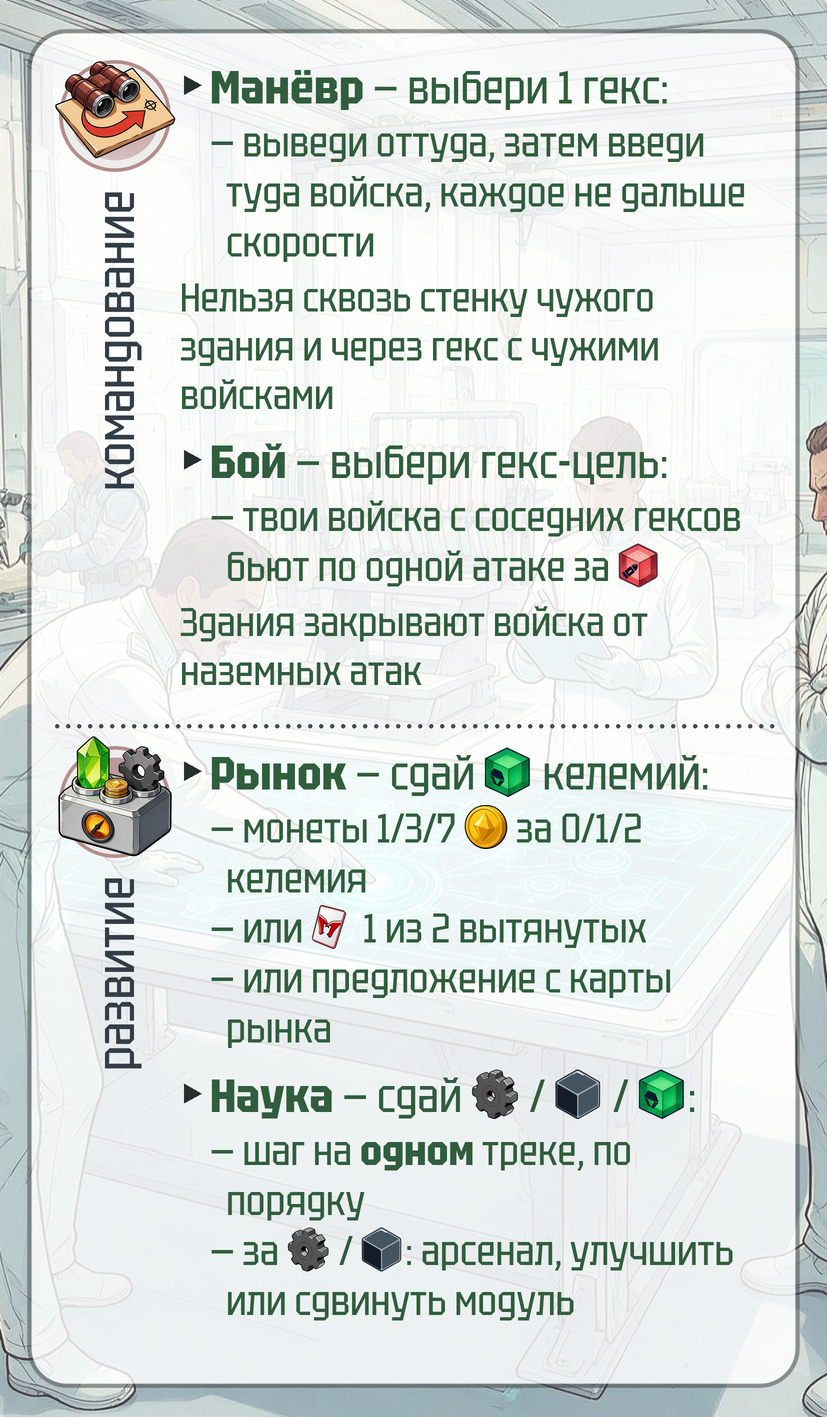
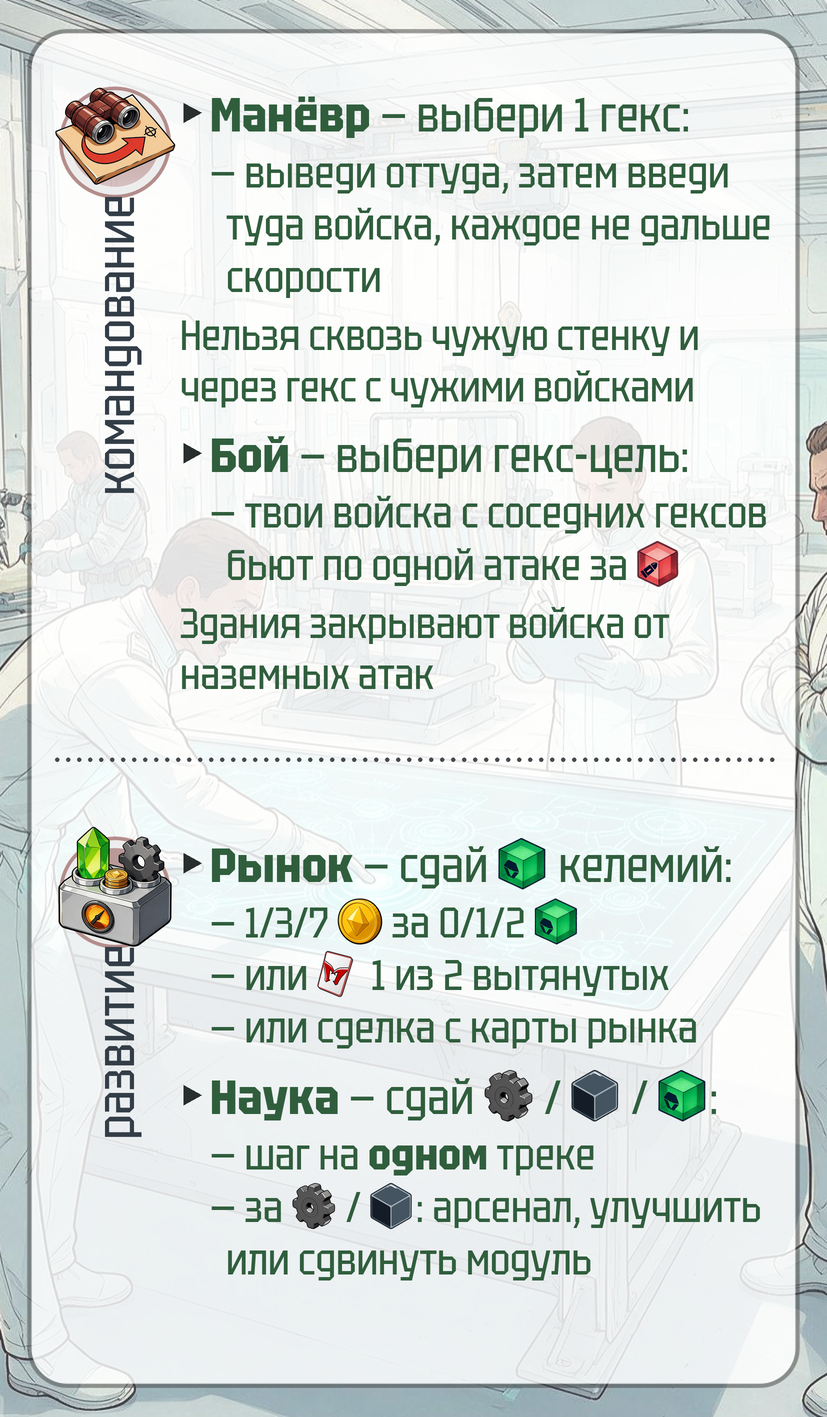
Памятка действий 5.0: разделы по высоте текста, равные зазоры, подписи заходят на кружок, переносы только если экономят строку, крупнее низ; вышка ЦУ — в зону стройки

Changed region(s): [[0.0605, 0.0311, 0.9371, 0.4968], [0.0605, 0.4968, 0.9069, 0.9315]]

diff --git a/tools/gen_memo_5.py b/tools/gen_memo_5.py
@@ -16,6 +16,12 @@ import sys
 
 from PIL import Image, ImageDraw, ImageFont
 
+try:                                   # переносы по слогам (pip install pyphen)
+    import pyphen
+    _СЛОГИ = pyphen.Pyphen(lang='ru_RU')
+except ImportError:
+    _СЛОГИ = None
+
 ROOT = os.path.dirname(os.path.dirname(os.path.abspath(__file__)))
 ДИСК = os.environ.get('KELIUM_DISK', os.path.join(os.path.expanduser('~'), 'Yandex.Disk',
                                                   'Forged in Kelium'))
@@ -97,16 +103,41 @@ def абзац(холст, x, y, ширина, части, р, отступ2=0):
     fо, fж = шрифт(ОБЫЧНЫЙ, р * K), шрифт(ЖИРНЫЙ, р * K)
     ик = int(р * K * 1.08)
     пробел = d.textlength(' ', font=fо)
-    строки, строка, ш = [], [], 0
     макс = ширина * K
+    # ПЕРЕНОС — ТОЛЬКО ЕСЛИ ОН ЭКОНОМИТ СТРОКУ (дизайнер 27.09): раскладка
+    # делается без переносов и с ними; переносы остаются, лишь если строк меньше
+    без = _строки(d, части, fо, fж, ик, пробел, макс, отступ2, False)
+    с = _строки(d, части, fо, fж, ик, пробел, макс, отступ2, True)
+    строки = с if len(с) < len(без) else без
+    return _нарисовать(холст, d, строки, x, y, р, fо, fж, ик, отступ2)
+
+
+def _строки(d, части, fо, fж, ик, пробел, макс, отступ2, переносить):
+    строки, строка, ш = [], [], 0
     for вид, знач in разбить(части):
         if вид == '_':
             if строка:
                 строка.append(('_', пробел))
                 ш += пробел
             continue
-        w = ик if вид == 'и' else d.textlength(знач, font=fж if вид == 'ж' else fо)
+        f_ = fж if вид == 'ж' else fо
+        w = ик if вид == 'и' else d.textlength(знач, font=f_)
         лимит = макс - (отступ2 * K if строки else 0)
+        # ПЕРЕНОС ПО СЛОГАМ (просьба дизайнера 27.09): не влезает слово —
+        # отрезаем от него самый длинный кусок по слогам, что влезает с дефисом
+        if переносить and вид != 'и' and строка and ш + w > лимит and _СЛОГИ and len(знач) > 4:
+            for левая, правая in _СЛОГИ.iterate(знач):
+                # короткий хвост на новой строке хуже, чем слово целиком
+                if len(левая) < 3 or len(правая) < 4:
+                    continue
+                wl = d.textlength(левая + '-', font=f_)
+                if ш + wl <= лимит:
+                    строка.append((вид, левая + '-', wl))
+                    строки.append(строка)
+                    строка, ш = [], 0
+                    знач = правая
+                    w = d.textlength(знач, font=f_)
+                    break
         if строка and ш + w > лимит:
             while строка and строка[-1][0] == '_':
                 ш -= строка.pop()[1]
@@ -116,6 +147,10 @@ def абзац(холст, x, y, ширина, части, р, отступ2=0):
         ш += w
     if строка:
         строки.append(строка)
+    return строки
+
+
+def _нарисовать(холст, d, строки, x, y, р, fо, fж, ик, отступ2):
     шаг = р * K * 1.22
     yy = y * K
     for n, стр in enumerate(строки):
@@ -150,18 +185,30 @@ def пунктир(d, y, x0=55, x1=775):
         x += 11 * K
 
 
-def раздел(холст, y0, y1, иконка, подпись, строки, р=40):
+НАХЛЁСТ = 8          # вертикальная подпись заходит на кружок (просьба дизайнера 27.09)
+
+
+def высота_раздела(иконка, подпись, строки, р=40):
+    """Сколько раздел займёт по высоте: текст или кружок с подписью, что выше."""
+    пусто = Image.new('RGBA', (827 * K, 2000 * K))
+    конец_текста = раздел(пусто, 0, 10 ** 6, иконка, подпись, строки, р, только_текст=True)
+    return max(конец_текста, 72 + 56 + 150)
+
+
+def раздел(холст, y0, y1, иконка, подпись, строки, р=40, только_текст=False):
     """Левая колонка: кружок и вертикальная подпись; справа — строки."""
     d = ImageDraw.Draw(холст)
+    if только_текст:
+        return _текст(холст, d, y0, строки, р)
     # кружок действия
     cx, cy, r = 115, y0 + 72, 56
     круг = вписать(икона('ring'), 2 * r * K, 2 * r * K)
     холст.alpha_composite(круг, (round(cx * K - круг.width / 2), round(cy * K - круг.height / 2)))
     ико = вписать(икона(иконка), 2.15 * r * K, 2.15 * r * K)
     холст.alpha_composite(ико, (round(cx * K - ико.width / 2), round(cy * K - ико.height / 2 - 6 * K)))
-    # вертикальная подпись снизу вверх под кружком
+    # вертикальная подпись снизу вверх под кружком, чуть заходит на него
     f = шрифт(ОБЫЧНЫЙ, 52 * K)
-    доступно = (y1 - (cy + r + 14)) * K
+    доступно = (y1 - (cy + r - НАХЛЁСТ)) * K
     while f.getlength(подпись) > доступно and f.size > 24 * K:
         f = шрифт(ОБЫЧНЫЙ, f.size - 2 * K)
     tw = int(f.getlength(подпись)) + 8 * K
@@ -170,8 +217,11 @@ def раздел(холст, y0, y1, иконка, подпись, строки,
     ImageDraw.Draw(лист).text((4 * K, th // 2), подпись, font=f, fill=СЛАНЕЦ, anchor='lm')
     лист = лист.rotate(90, expand=True)
     холст.alpha_composite(лист, (round(cx * K - лист.width / 2),
-                                 round((cy + r + 14) * K)))
-    # текст
+                                 round((cy + r - НАХЛЁСТ) * K)))
+    return _текст(холст, d, y0, строки, р)
+
+
+def _текст(холст, d, y0, строки, р):
     y = y0 + 14
     x = 180
     права = 775                       # внутренний край рамки шаблона (797) с полем
@@ -228,40 +278,46 @@ def карточка_1():
         ('supply', 'снабжение', [
             ('ветка', [('ж', 'Выпустить')]),
             ('под', [('т', '− военными зданиями с энергией и ЦУ: '), ('и', 'unit'),
-                     ('т', ' на гекс здания или '), ('и', 'ammo'), ('т', ' в хранилище')]),
+                     ('т', ' на гекс здания или '), ('и', 'ammo'), ('т', ' в хранилище; '),
+                     ('т', 'вышку ЦУ — в зону стройки')]),
             ('ветка', [('ж', 'Построить военное здание')]),
             ('под', [('т', '− за '), ('и', 'coin'), ('т', ', сразу выпускает без энергии')]),
         ]),
     ]
-    # высота разделов — по объёму текста
-    границы = [44, 380, 668, 1000]
-    низ = границы[-1]
+    # РАЗДЕЛЫ ПО ФАКТИЧЕСКОЙ ВЫСОТЕ, зазор до пунктира и после — один
+    зазор = 18
+    y = 40
     for i, (ик, подп, стр) in enumerate(разделы):
-        раздел(холст, границы[i], границы[i + 1] - 8, ик, подп, стр)
-        if i < 2:
-            пунктир(d, границы[i + 1] - 4)
+        h = высота_раздела(ик, подп, стр)
+        раздел(холст, y, y + h, ик, подп, стр)
+        y += h + зазор
+        пунктир(d, y)
+        y += зазор
+    низ = y - зазор
     # общая строка о стройке и схема зоны стройки дизайнера (иконка 76)
-    пунктир(d, низ + 4)
+    # (пунктир над зоной стройки уже нарисован циклом)
     # текст слева, схема зоны — справа от него, всё внутри рамки (30..797 × 30..1386)
-    # подписи — напротив своих схем
-    п = (1378 - низ - 8) / 2
-    абзац(холст, 52, низ + 8 + п / 2 - 44, 380, [
-        ('ж', 'Построить'), ('т', ' одно здание: на гексе с твоим зданием')], 36)
-    абзац(холст, 52, низ + 8 + п * 1.5 - 70, 380, [
-        ('т', 'или за его свободной стенкой')], 36)
-    абзац(холст, 52, низ + 8 + п * 1.5 + 20, 380, [
-        ('ж', 'Снести'), ('т', ' своё: +1 '), ('и', 'coin')], 36)
-    # справа — две схемы одна над другой через черту (просьба дизайнера 27.09):
-    # сверху «на гексе со своим зданием», снизу «за его свободной стенкой»
-    верх_з, низ_з = низ + 8, 1378
-    cx = 610
-    половина = (низ_з - верх_з) / 2
-    a = вписать(икона('build_own'), 330 * K, (половина - 6) * K)
-    b = вписать(икона('build_wall'), 340 * K, (половина - 6) * K)
-    холст.alpha_composite(a, (round(cx * K - a.width / 2), round((верх_з + половина / 2) * K - a.height / 2)))
-    холст.alpha_composite(b, (round(cx * K - b.width / 2), round((верх_з + половина * 1.5) * K - b.height / 2)))
-    d.line((52 * K, (верх_з + половина) * K, 775 * K, (верх_з + половина) * K),
-           fill=ЗЕЛЁНЫЙ, width=5 * K)
+    # ЗОНА СТРОЙКИ: две половины через черту; в каждой — подпись слева, схема справа
+    верх_з, низ_з = низ + 10, 1376
+    пол = (низ_з - верх_з) / 2
+    черта = верх_з + пол
+    d.line((52 * K, черта * K, 775 * K, черта * K), fill=ЗЕЛЁНЫЙ, width=5 * K)
+    колонка = 410
+
+    def по_центру(y_верх, высота, части, р):
+        пробник = Image.new('RGBA', (827 * K, 600 * K))
+        h = абзац(пробник, 52, 0, колонка, части, р)
+        абзац(холст, 52, y_верх + (высота - h) / 2, колонка, части, р)
+
+    по_центру(верх_з, пол, [('ж', 'Построить'), ('т', ' здание на гексе с твоим зданием')], 40)
+    # нижняя половина: подпись к схеме сверху, строка сноса снизу
+    по_центру(черта, пол * 0.55, [('т', 'или за его свободной стенкой')], 40)
+    по_центру(черта + пол * 0.52, пол * 0.48, [('ж', 'Снести'), ('т', ' своё: +1 '), ('и', 'coin')], 40)
+    a = вписать(икона('build_own'), 300 * K, (пол - 16) * K)
+    b = вписать(икона('build_wall'), 310 * K, (пол - 16) * K)
+    cx = 625
+    холст.alpha_composite(a, (round(cx * K - a.width / 2), round((верх_з + пол / 2) * K - a.height / 2)))
+    холст.alpha_composite(b, (round(cx * K - b.width / 2), round((черта + пол / 2) * K - b.height / 2)))
     return холст.resize((W, H), Image.LANCZOS).convert('RGB')
 
 
@@ -274,7 +330,7 @@ def карточка_2():
         ('command', 'командование', [
             ('ветка', [('ж', 'Манёвр'), ('т', ' — выбери 1 гекс:')]),
             ('под', [('т', '− выведи оттуда, затем введи туда войска, каждое не дальше скорости')]),
-            ('прим', [('т', 'Нельзя сквозь стенку чужого здания и через гекс с чужими войсками')]),
+            ('прим', [('т', 'Нельзя сквозь чужую стенку и через гекс с чужими войсками')]),
             ('зазор', 14),
             ('ветка', [('ж', 'Бой'), ('т', ' — выбери гекс-цель:')]),
             ('под', [('т', '− твои войска с соседних гексов бьют по одной атаке за '), ('и', 'ammo')]),
@@ -282,22 +338,29 @@ def карточка_2():
         ]),
         ('develop', 'развитие', [
             ('ветка', [('ж', 'Рынок'), ('т', ' — сдай '), ('и', 'kelium'), ('т', ' келемий:')]),
-            ('под', [('т', '− монеты 1/3/7 '), ('и', 'coin'), ('т', ' за 0/1/2 келемия')]),
+            ('под', [('т', '− 1/3/7 '), ('и', 'coin'), ('т', ' за 0/1/2 '), ('и', 'kelium')]),
             ('под', [('т', '− или '), ('и', 'objective'), ('т', ' 1 из 2 вытянутых')]),
-            ('под', [('т', '− или предложение с карты рынка')]),
+            ('под', [('т', '− или сделка с карты рынка')]),
             ('зазор', 14),
             ('ветка', [('ж', 'Наука'), ('т', ' — сдай '), ('и', 'gear'), ('т', ' / '),
                        ('и', 'trophy'), ('т', ' / '), ('и', 'kelium'), ('т', ':')]),
-            ('под', [('т', '− шаг на '), ('ж', 'одном'), ('т', ' треке, по порядку')]),
+            ('под', [('т', '− шаг на '), ('ж', 'одном'), ('т', ' треке')]),
             ('под', [('т', '− за '), ('и', 'gear'), ('т', ' / '), ('и', 'trophy'),
                      ('т', ': арсенал, улучшить или сдвинуть модуль')]),
         ]),
     ]
     # Командованию — больше места: у него две ветки с оговорками
-    верх, граница, низ = 44, 730, 1380
-    раздел(холст, верх, граница - 8, разделы[0][0], разделы[0][1], разделы[0][2], р=44)
-    пунктир(d, граница - 4)
-    раздел(холст, граница, низ, разделы[1][0], разделы[1][1], разделы[1][2], р=44)
+    р2 = 46
+    hs = [высота_раздела(ик, подп, стр, р2) for ик, подп, стр in разделы]
+    свободно = 1376 - 40 - sum(hs)
+    зазор = max(10, свободно / 4)
+    y = 40 + зазор / 2
+    for i, ((ик, подп, стр), h) in enumerate(zip(разделы, hs)):
+        раздел(холст, y, y + h + зазор, ик, подп, стр, р=р2)
+        y += h + зазор
+        if i == 0:
+            пунктир(d, y)
+            y += зазор
     return холст.resize((W, H), Image.LANCZOS).convert('RGB')
 
 
